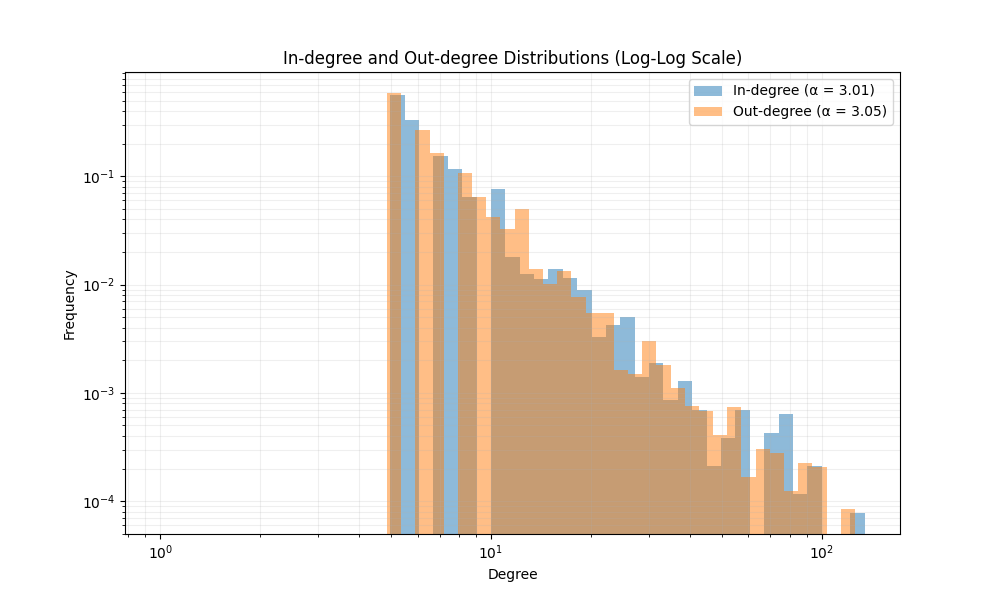
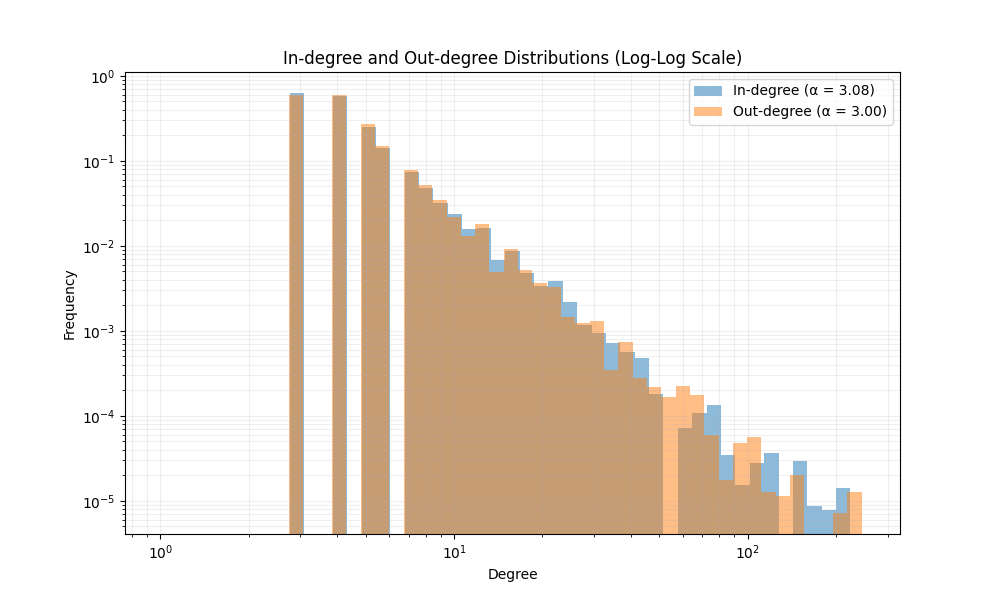
feat: add `variable_edges`

diff --git a/ba_pns.py b/ba_pns.py
@@ -6,7 +6,7 @@ import powerlaw
 from math import exp
 
 class PaymentNetworkSimulated:
-    def __init__(self, n, m_in, m_out, m0):
+    def __init__(self, n, m_in, m_out, m0, variable_edges=False):
         """        
         Initialize a Simulated Payment Network based on Barabási-Albert scale-free algorithm
         
@@ -15,6 +15,7 @@ class PaymentNetworkSimulated:
         m_in (int): Number of incoming edges to attach from a new node to existing nodes
         m_out (int): Number of outgoing edges to attach from a new node to existing nodes
         m0 (int): Initial number of nodes (must be >= max(m_in, m_out))
+        variable_edges (bool): If True, at each step, m_in and m_out are randomly shuffled
         """
         if m0 < max(m_in, m_out):
             raise ValueError("m0 must be greater than or equal to max(m_in, m_out)")
@@ -23,6 +24,7 @@ class PaymentNetworkSimulated:
         self.m_in = m_in
         self.m_out = m_out
         self.m0 = m0
+        self.variable_edges = variable_edges
         self.G = nx.complete_graph(m0, create_using=nx.DiGraph())
         self.new_node = m0
         self.amount_matrix = np.zeros((n, n))
@@ -32,20 +34,29 @@ class PaymentNetworkSimulated:
         print(f"Graph created. Number of nodes: {len(self.G.nodes())}")
         print("Adding nodes...")
 
+
         for count in range(self.n - self.m0):
             print(f"----------> Step {count} <----------")
             self.G.add_node(self.m0 + count)
             print(f"Node added: {self.m0 + count + 1}")
+
+            m_in_step = self.m_in
+            m_out_step = self.m_out
+
+            if self.variable_edges:
+                if np.random.rand() < 0.5:
+                    m_in_step, m_out_step = m_out_step, m_in_step
             
-            for _ in range(self.m_in):
+            for _ in range(m_in_step):
                 self.add_edge(incoming=True)
                 
-            for _ in range(self.m_out):
+            for _ in range(m_out_step):
                 self.add_edge(incoming=False)
             
             self.new_node += 1
 
         print(f"\nFinal number of nodes ({len(self.G.nodes())}) reached")
+        print(f"Final number of edges is ({len(self.G.edges())})")
 
     def rand_prob_node(self, incoming=True):
         """

diff --git a/main.py b/main.py
@@ -1,6 +1,6 @@
 from ba_pns import PaymentNetworkSimulated
 
-payment_network_graph = PaymentNetworkSimulated(n=1000, m_in=5, m_out=5, m0=5)
+payment_network_graph = PaymentNetworkSimulated(n=6000, m_in=4, m_out=3, m0=4, variable_edges=True)
 payment_network_graph.generate()
 payment_network_graph.plot_degree_distribution()
 payment_network_graph.plot_amount_distribution()
